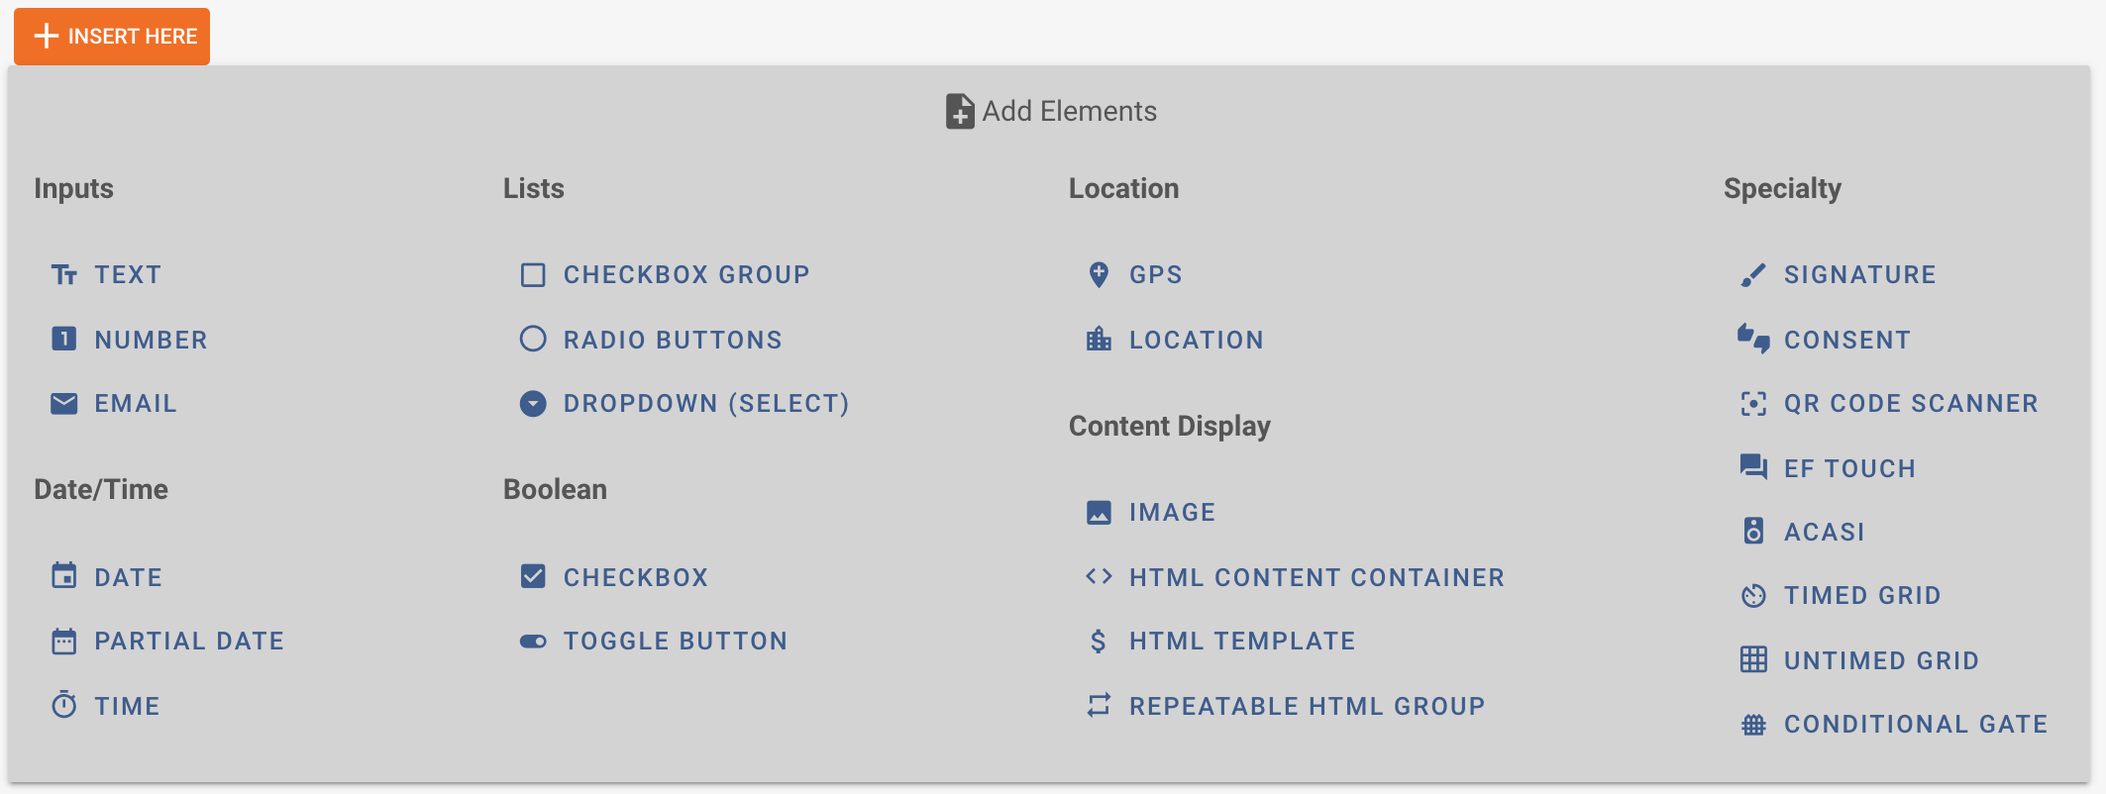
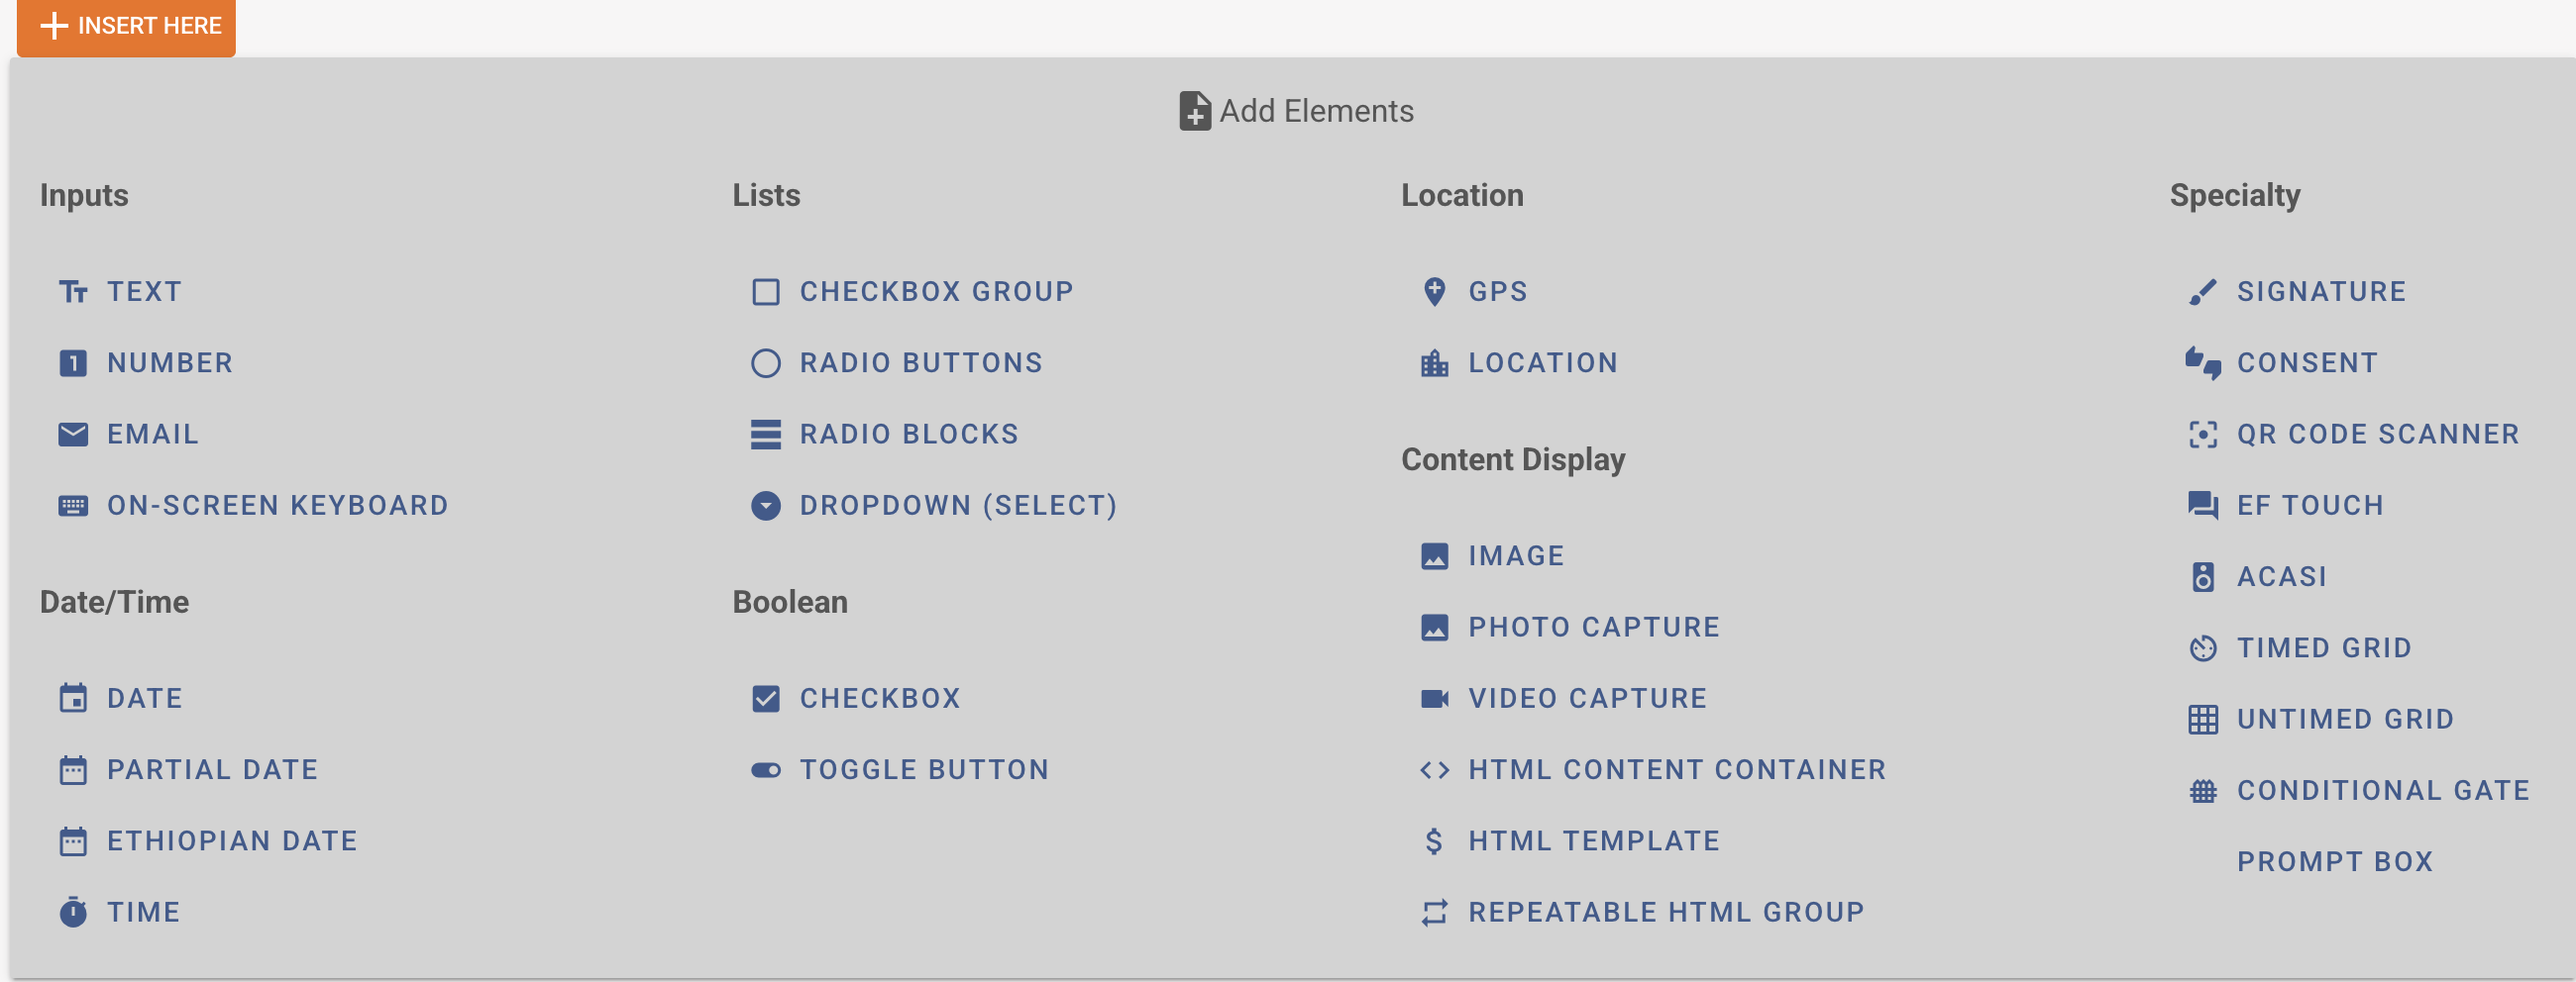
updates

diff --git a/docs/editor/advanced-form-programming/content-sets.md b/docs/editor/advanced-form-programming/content-sets.md
@@ -1,5 +1,13 @@
 ## Content Sets 
-Content Sets are groups of forms and configuration you can use as a template for new groups.
+
+Content Sets are groups of forms and configuration you can use as a template for new group creation. Tangerine already comes with some predefined content sets:
+
+- custom-app - is a custom app group starter set
+- default - is the regular Tangerine group
+- teach and attendance - are two versions of a teach set that has been preconfigured.
+- case module and case-module-starter - are two sets that showcase the case module
+
+  
 
 ## Anatomy of a Content Set
 
@@ -36,7 +44,7 @@ If using Content set 2, this build process is not necessary. However, it is an a
 
 ## Creating a new Content Set
 
-Create a new content set by copying a group's content into the content sets folder. You have to update the app-config.json file and rename it to app-config-default.json. In this file, if using sync1, you must update the `uploadToken` and put the correct `homeUrl` for your app. Copy this folder under the content-sets folder
+Create a new content set by copying a group's content into the content-sets folder. You have to update the app-config.json file and rename it to app-config-default.json. In this file, if using sync1, you must update the `uploadToken` and put the correct `homeUrl` for your app. Copy this folder under the content-sets folder
 
 ## Enable content set dropdown in new group creation
 

diff --git a/docs/index.md b/docs/index.md
@@ -84,7 +84,7 @@ title: Home
     <a href="./get-involved">Learn More</a>
   </div>
     <div class="card">
-    <h3>Prodcut Suite </h3>
+    <h3>Product Suite </h3>
     <p>Select from pre-build tested products</p>
     <a href="./product-suite/">Learn More</a>
   </div>
@@ -136,7 +136,6 @@ title: Home
     <h3>User & System Management</h3>
    <p>
         <li><a class='link' href="./editor/getting-started-editor/user-management/">User and roles management</a></li>
-        <li><a class='link' href="./editor/advanced-form-programming/translations/">Multilingual support  </a></li>
         <li><a class='link' href="./editor/advanced-form-programming/translations/">Multilingual support  </a></li>
         </ul> </p>
 
